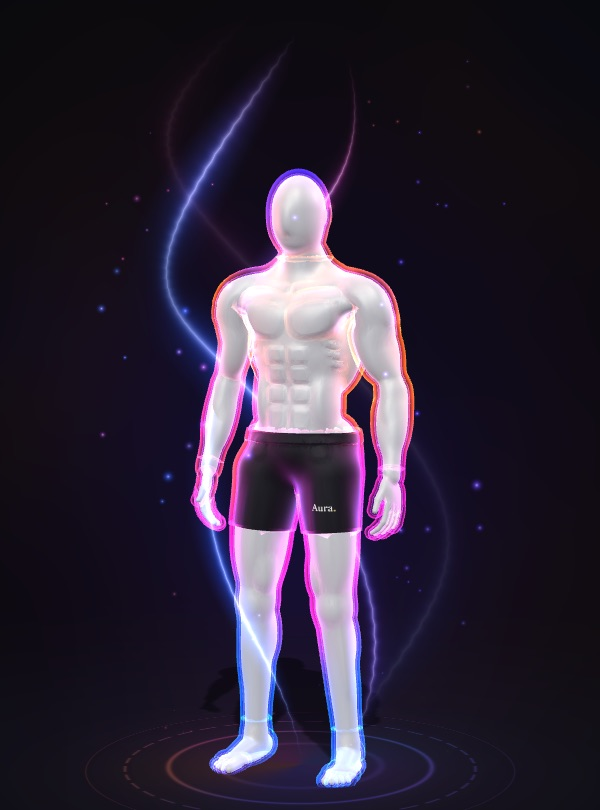
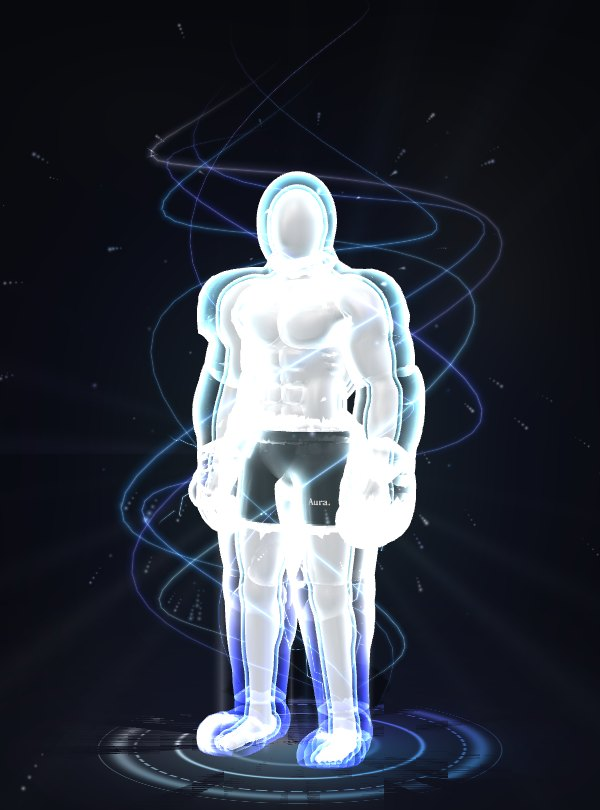
Theme cards: a name, a line and an Electric picture; Get started ignites the circle; a local way in
- Theme cards lose tone, number, description, swatches and typeface; one-line page intro
- Aura theme pictures re-rendered in Electric; npm run posters renders them from the live characters
- Get started: the ring fills in the six colours, the Aura bursts, the next screen follows
- On localhost only: start without Google (absent from the public build)
- Register F-155 to F-157; VISUALS.md

diff --git a/src/features/personalize/Personalize.tsx b/src/features/personalize/Personalize.tsx
@@ -20,7 +20,7 @@ import { CharacterStudio } from './CharacterStudio'
 import { TextSize } from './TextSize'
 
 const TITLES: Record<Step, { title: string; sub: string }> = {
-  theme: { title: 'Choose your theme', sub: 'Five ways to experience Aura. Your training, ratings and progress are the same in all of them, and you can change at any time.' },
+  theme: { title: 'Choose your theme', sub: 'Change it any time. Your training and results stay the same.' },
   character: { title: 'Make the character yours', sub: 'This is who performs your exercises and stands on your profile.' },
   about: { title: 'A little about you', sub: 'All of it is optional. Skip it now and fill it in whenever you like.' },
   sharing: { title: 'What you share', sub: 'You decide what other athletes see, part by part. You can change any of it later.' },
@@ -124,8 +124,6 @@ export default function Personalize() {
 
 // ── Step one: the four themes ────────────────────────────────────────────
 
-const SWATCH = ['--bg', '--surface-2', '--text', '--accent', '--d-pull', '--d-push'] as const
-
 function ThemeStep({ value, onChange, released, admin, character }: { value: ThemeId; onChange: (t: ThemeId) => void; released: Parameters<typeof isReleased>[1]; admin: boolean; character: 'male' | 'female' }) {
   return (
     <div className="grid gap-3.5 sm:grid-cols-2">
@@ -137,20 +135,15 @@ function ThemeStep({ value, onChange, released, admin, character }: { value: The
         return (
           <button
             key={id} data-theme={id} data-scheme={t.scheme} aria-pressed={on} disabled={!open} onClick={() => onChange(id)}
-            className={cx('rise group relative isolate flex min-h-[236px] overflow-hidden rounded-card border bg-bg text-left text-ink transition-[box-shadow,transform] duration-300', on ? 'border-transparent shadow-[0_0_0_2px_var(--accent),0_24px_60px_-28px_var(--accent)]' : 'border-line-strong', !open && 'opacity-60')}
+            title={`${t.name}: ${t.blurb} ${u.list.length} ${u.forms === 'Aura' ? 'Auras' : `${u.forms.toLowerCase()}s`}.`}
+            className={cx('rise group relative isolate flex min-h-[200px] overflow-hidden rounded-card border bg-bg text-left text-ink transition-[box-shadow,transform] duration-300', on ? 'border-transparent shadow-[0_0_0_2px_var(--accent),0_24px_60px_-28px_var(--accent)]' : 'border-line-strong', !open && 'opacity-60')}
             style={{ animationDelay: `${i * 0.06}s` }}
           >
             <span className="page-glow !absolute" />
-            <span className="relative z-10 flex min-w-0 flex-1 flex-col p-4 pr-2 sm:p-5">
-              <span className="eyebrow">{String(i + 1).padStart(2, '0')} · {t.tone}</span>
-              <span className="display mt-2 block text-[32px] leading-[0.98] sm:text-[36px]">{t.name}</span>
+            {/* A name, one line, a picture. What else a theme is, the athlete sees by trying it. */}
+            <span className="relative z-10 flex min-w-0 flex-1 flex-col justify-end p-4 pr-2 sm:p-5">
+              <span className="display block text-[34px] leading-[0.98] sm:text-[38px]">{t.name}</span>
               <span className="display mt-2.5 block text-[17px] leading-[1.12] text-ink-2">{t.line}</span>
-              <span className="mt-2.5 block text-[12px] leading-snug text-ink-3">{t.blurb}</span>
-              <span className="mt-auto flex items-center gap-2 pt-4">
-                <span className="flex">{SWATCH.map((v) => <span key={v} className="-ml-1 h-4 w-4 rounded-full border border-line-strong first:ml-0" style={{ background: `var(${v})` }} />)}</span>
-                <span className="flex gap-1">{u.list.slice(0, 5).map((f) => <span key={f.id} title={f.name} className="h-1.5 w-3 rounded-full" style={{ background: f.colour }} />)}</span>
-              </span>
-              <span className="mt-2 block font-mono text-[9.5px] tracking-[0.1em] text-ink-3 uppercase">{t.type} · {u.list.length} {u.forms === 'Aura' ? 'Auras' : `${u.forms.toLowerCase()}s`}</span>
             </span>
             {/* The character of this universe, in its own light. */}
             <span className="relative z-10 m-2.5 ml-0 w-[38%] shrink-0 overflow-hidden rounded-[calc(var(--r-card)*0.7)] bg-(--stage)">

diff --git a/src/features/onboarding/Onboarding.tsx b/src/features/onboarding/Onboarding.tsx
@@ -213,6 +213,14 @@ export function Onboarding() {
   }
 
   const welcome = step === 0 && !accountStep
+  // "Get started" lights the circle first: the ring fills, the Aura bursts, and the next screen comes out of it.
+  const [igniting, setIgniting] = useState(false)
+  const ignite = (then: () => void) => {
+    if (igniting) return
+    if (window.matchMedia('(prefers-reduced-motion: reduce)').matches) return then()
+    setIgniting(true)
+    window.setTimeout(() => { then(); setIgniting(false) }, 1450)
+  }
   const firstName = name.trim().split(' ')[0] || 'Athlete'
 
   return (
@@ -262,21 +270,26 @@ export function Onboarding() {
           )}
 
           {/* 0 · Welcome: one still screen */}
+          {welcome && igniting && <span className="aura-ignite-flash" aria-hidden />}
           {welcome && (
             <div className="safe-top safe-bottom flex min-h-0 flex-1 flex-col items-center text-center">
               <div className="flex min-h-0 flex-1 flex-col items-center justify-center">
-                <AuraField mix={EVEN} aura={7200} size={Math.round(Math.min(300, Math.max(132, tall * 0.33)))}>
+                <AuraField mix={EVEN} aura={7200} size={Math.round(Math.min(300, Math.max(132, tall * 0.33)))} ignite={igniting}>
                   <Wordmark size={tall < 620 ? 40 : 54} />
                 </AuraField>
-                <h1 className="display mt-[2.5dvh] text-[clamp(31px,5.6dvh,52px)] leading-[1.02]">Discover the limitless potential <span className="italic">of your body.</span></h1>
-                <p className="mt-[2dvh] max-w-sm text-[15.5px] leading-relaxed text-ink-2">
+                <h1 className={cx('display mt-[2.5dvh] text-[clamp(31px,5.6dvh,52px)] leading-[1.02] transition-opacity delay-700 duration-500', igniting && 'opacity-0')}>Discover the limitless potential <span className="italic">of your body.</span></h1>
+                <p className={cx('mt-[2dvh] max-w-sm text-[15.5px] leading-relaxed text-ink-2 transition-opacity delay-700 duration-500', igniting && 'opacity-0')}>
                   Aura shows you exactly where you are today, and every step to where you’ve always dreamed of going.
                 </p>
               </div>
-              <div className="flex w-full max-w-sm shrink-0 flex-col gap-2.5 pt-[2.5dvh]">
+              <div className={cx('flex w-full max-w-sm shrink-0 flex-col gap-2.5 pt-[2.5dvh] transition-opacity duration-500', igniting && 'pointer-events-none opacity-0')}>
                 {configured
-                  ? <button className="btn btn-primary btn-lg" onClick={() => setAccountStep(true)}>Get started <ArrowRight size={17} /></button>
-                  : <button className="btn btn-primary btn-lg" onClick={() => setStep(1)}>Begin <ArrowRight size={17} /></button>}
+                  ? <button className="btn btn-primary btn-lg" data-get-started onClick={() => ignite(() => setAccountStep(true))}>Get started <ArrowRight size={17} /></button>
+                  : <button className="btn btn-primary btn-lg" data-get-started onClick={() => ignite(() => setStep(1))}>Begin <ArrowRight size={17} /></button>}
+                {/* Only on a developer's machine (npm run dev): a public build never has this. */}
+                {configured && import.meta.env.DEV && (
+                  <button className="btn btn-quiet btn-sm self-center" data-local-start onClick={() => ignite(() => setStep(1))}>Without signing in · this computer only</button>
+                )}
                 {configured && (
                   <p className="mt-1 text-[13.5px] text-ink-2">
                     Already have an account?{' '}

diff --git a/src/ui/AuraField.tsx b/src/ui/AuraField.tsx
@@ -13,6 +13,8 @@ interface Props {
   /** 0–1 progress toward the next Aura class, drawn on the outer ring. */
   progress?: number
   rings?: boolean
+  /** Ignite: the outer ring fills with the six colours, clockwise, and the Aura bursts. Plays once when it turns on (the welcome's "Get started"). */
+  ignite?: boolean
   children?: ReactNode
   className?: string
 }
@@ -22,7 +24,7 @@ interface Props {
  * discipline mix. A handstand specialist glows gold, a puller blue, and an
  * all-rounder resolves toward white. Size and brightness follow the score.
  */
-export function AuraField({ mix, aura, size = 320, progress, rings = true, children, className }: Props) {
+export function AuraField({ mix, aura, size = 320, progress, rings = true, ignite, children, className }: Props) {
   const power = Math.min(1, aura / 9000)
   const active = aura > 0
   const reach = 0.17 + power * 0.07
@@ -31,7 +33,7 @@ export function AuraField({ mix, aura, size = 320, progress, rings = true, child
   const circ = 2 * Math.PI * r
 
   return (
-    <div className={`aura-field ${className ?? ''}`} style={style}>
+    <div className={`aura-field ${ignite ? 'aura-ignite' : ''} ${className ?? ''}`} style={style} data-ignite={ignite || undefined}>
       {active && (
         <div className="aura-orbit">
           {WHEEL.map((d, i) => {
@@ -103,8 +105,20 @@ export function AuraField({ mix, aura, size = 320, progress, rings = true, child
               style={{ transition: 'stroke-dasharray 1.2s var(--ease-out-soft)' }}
             />
           )}
+          {/* Ignite: the border round the clock fills, one discipline's colour after another. */}
+          {ignite && WHEEL.map((d, i) => {
+            const at = (deg: number) => { const a = ((deg - 90) * Math.PI) / 180; return `${50 + Math.cos(a) * r} ${50 + Math.sin(a) * r}` }
+            return (
+              <path
+                key={d} d={`M ${at(i * 60)} A ${r} ${r} 0 0 1 ${at(i * 60 + 60.5)}`} pathLength={1}
+                className="aura-ignite-arc" fill="none" stroke={dvar(d)} strokeWidth="1.3" strokeLinecap="round"
+                style={{ animationDelay: `${i * 0.12}s` }}
+              />
+            )
+          })}
         </svg>
       )}
+      {ignite && <span className="aura-ignite-wave" aria-hidden />}
 
       <div className="absolute inset-0 flex flex-col items-center justify-center text-center">{children}</div>
     </div>

diff --git a/src/styles/index.css b/src/styles/index.css
@@ -676,6 +676,57 @@
   mix-blend-mode: soft-light;
 }
 
+/* Ignite (the welcome's "Get started"): the border round the clock fills in the six colours, the field gathers, bursts, and is gone. */
+.aura-ignite {
+  animation: aura-ignite 1.5s cubic-bezier(0.4, 0, 0.2, 1) forwards;
+}
+.aura-ignite-arc {
+  stroke-dasharray: 1;
+  stroke-dashoffset: 1;
+  filter: drop-shadow(0 0 1.6px currentColor) drop-shadow(0 0 3px rgba(255, 255, 255, 0.5));
+  animation: aura-ignite-arc 0.15s linear forwards;
+}
+.aura-ignite-wave {
+  position: absolute;
+  inset: 2%;
+  border-radius: 50%;
+  border: 2px solid rgba(255, 255, 255, 0.85);
+  box-shadow: 0 0 40px 10px color-mix(in oklab, var(--accent) 70%, transparent), inset 0 0 40px 6px color-mix(in oklab, var(--accent) 45%, transparent);
+  opacity: 0;
+  pointer-events: none;
+  animation: aura-ignite-wave 0.75s 0.82s cubic-bezier(0.2, 0.7, 0.3, 1) forwards;
+}
+.aura-ignite-flash {
+  position: fixed;
+  inset: 0;
+  pointer-events: none;
+  background: radial-gradient(circle at 50% 32%, rgba(255, 255, 255, 0.55), color-mix(in oklab, var(--accent) 30%, transparent) 35%, transparent 70%);
+  opacity: 0;
+  animation: aura-ignite-flash 0.7s 0.85s ease-out forwards;
+}
+@keyframes aura-ignite-arc {
+  to { stroke-dashoffset: 0; }
+}
+@keyframes aura-ignite {
+  0% { transform: scale(1); filter: brightness(1); }
+  45% { transform: scale(1.03); filter: brightness(1.25); }
+  56% { transform: scale(0.95); filter: brightness(1.45); }
+  68% { transform: scale(1.18); filter: brightness(2.1) saturate(1.3); opacity: 1; }
+  100% { transform: scale(1.9); filter: brightness(2.6) saturate(1.2); opacity: 0; }
+}
+@keyframes aura-ignite-wave {
+  0% { transform: scale(0.96); opacity: 1; }
+  100% { transform: scale(3.4); opacity: 0; }
+}
+@keyframes aura-ignite-flash {
+  0% { opacity: 0; }
+  30% { opacity: 1; }
+  100% { opacity: 0; }
+}
+@media (prefers-reduced-motion: reduce) {
+  .aura-ignite, .aura-ignite-arc, .aura-ignite-wave, .aura-ignite-flash { animation-duration: 0.01s; animation-delay: 0s; }
+}
+
 @keyframes aura-orbit {
   to {
     transform: rotate(360deg);

diff --git a/scripts/stage.html b/scripts/stage.html
@@ -1,0 +1,23 @@
+<!doctype html><meta charset="utf-8"><title>stage</title>
+<!-- A bare stage for rendering pictures (scripts/render-posters.mjs). Opened through the dev server: /scripts/stage.html?… -->
+<style>html,body{margin:0;background:#08090d;overflow:hidden}canvas{display:block;width:100vw;height:100vh}</style>
+<canvas id="c"></canvas>
+<script type="module">
+import { Player } from '/src/visual/player.ts'
+import { UNIVERSES } from '/src/theme/themes.ts'
+const q = new URLSearchParams(location.search)
+const u = UNIVERSES[q.get('uni') ?? 'aura']
+const f = u.finishes[Number(q.get('fin') ?? 0)]
+const player = new Player(document.getElementById('c'))
+player.margin = Number(q.get('margin') ?? 1.2)
+player.resize(innerWidth, innerHeight)
+await player.setCast([{
+  character: q.get('who') ?? 'male', motion: null, muscles: null,
+  aura: { theme: q.get('theme') ?? 'cosmic', mode: 'full', level: Number(q.get('level') ?? 0.7) },
+  style: { universe: u.id, variant: q.get('var') ?? undefined, skin: f.skin, hair: f.hair, accent: f.accent },
+}])
+if (q.has('az')) player.reframe(Number(q.get('az')))
+if (q.has('zoom')) player.zoom(Number(q.get('zoom')))
+window.__player = player
+setTimeout(() => { window.__ready = true }, Number(q.get('at') ?? 2) * 1000)
+</script>

diff --git a/REGISTER.md b/REGISTER.md
@@ -193,6 +193,9 @@ Reference: [VISUALS.md](VISUALS.md) §11 to §13. Theme data: `src/theme/`. "Pro
 | F-152 | **The sample world is no longer offered on the welcome screen** (owner's request, 2026-11-19). It still exists for testing and is opened by address only: `…/?demo` | Sample data | T-20; every journey now enters this way | Nobody finds it by accident. Coach Studio can therefore be looked at without an account only by someone who knows the address | F-01 |
 | F-153 | **At rest an Aura is a strong glow; Activate charges it and lets it burst.** Every theme in every universe: only the burning outline and its field while standing; rays, ribbons, particles, streams, rings, lightning only in a burst. *Activate* on the character (profile, Personalize, Character Studio) gathers for about a second, bursts, and settles. A set in a demonstration no longer bursts by itself | Working (local) | Rendered at rest, gathering, bursting and after, for 4 Aura themes, 4 Goku forms, 3 Baki forms and the paper stage (Goku Light); on the profile: Activate charges, bursts, is ready again (T-20) | Changes how every Aura looks: **look at your forms in the Character Studio**. The theme posters shown before a character is chosen are still the earlier pictures, with ribbons. The instructor screen still bursts in Electric. Exercise demonstrations show no Aura, as before | F-120, F-148 |
 | F-154 | **The introduction lights what it talks about in the theme's colour**, with a glow round it, and the tab of the page you are on is in that colour too. It ends on *Go to profile*, with *Start first training* under it, quieter. Back on the profile, **Personalize glows** until theme and character are chosen | Working (local) | T-20: the lit tab in the theme colour, the ending's two actions, Personalize glowing and stopping once chosen; the journeys re-run | The glow shows only after the introduction was seen or skipped, so it never competes with "Start here" | F-143 |
+| F-155 | **The theme cards are a name, one line and a picture**: the tone, number, description, colour dots and typeface line are gone (the description is kept as the card's tooltip). The Aura themes' picture is now the master character in the **Electric** Aura, just after an Activate burst (`npm run posters -- aura`, `scripts/render-posters.mjs`, from the live 3D characters). The page's own line is one sentence | Working (local) | In a browser: the card's text, the new picture on both Aura cards (owner's screenshot 2026-11-19 as the brief) | **Only the two Aura pictures were remade.** Goku, Goku Light and Baki keep their earlier pictures; the same script remakes them when wanted. The picture shows Electric although an athlete starts in Cosmic: it shows what the theme can be | F-121 |
+| F-156 | **"Get started" ignites the circle**: the ring round the clock fills clockwise in the six discipline colours, the Aura gathers and bursts outward in a wave and a flash, and the next screen comes out of it (about 1.5 s). Also on *Begin* (without accounts). With reduced motion it goes straight on | Working (local) | Filmed in a browser at eight moments; the account step follows; the onboarding journey re-run with it | – | F-150 |
+| F-157 | **On a developer's machine only, a way in without Google**: *Without signing in · this computer only* on the welcome, under Get started. It runs the same questions and makes a local profile on that computer, as Aura without accounts does | Working (local) | In a browser, with the project configured: the button, the questions, the starting line, the profile; **checked absent from the public build** | Exists only in `npm run dev` (`import.meta.env.DEV`): the public site never shows it. A profile made this way is not an account and is not synced | F-01 |
 
 ### A coach sees their students (added 2026-11-19)
 
@@ -415,6 +418,13 @@ Reference: [VISUALS.md](VISUALS.md) §11 to §13. Theme data: `src/theme/`. "Pro
 | Data protection | Any real athletes | Privacy notice, deletion and export, consent for under-18s in classes |
 
 ## F · Change log
+
+**2026-11-19 · Simpler theme cards in Electric; Get started ignites; a local way in**
+
+- At the owner's request: theme cards cut to name, line and picture, with the Aura pictures remade in Electric (F-155). New `npm run posters` and `scripts/stage.html` render them from the live characters.
+- Get started fills the circle's ring and bursts into the next screen (F-156).
+- On localhost only, the questions can be reached without Google (F-157); not in the public build.
+- Journeys 58, 21, 44; 649 tests. **Not on a real phone.** Not published.
 
 **2026-11-19 · The Aura at rest, Activate, and a clearer introduction**
 

diff --git a/VISUALS.md b/VISUALS.md
@@ -121,6 +121,8 @@ Together these are every exercise of the first-day assessment (all 67 of its gui
 - **Behaviour** (`director.ts`): repetitions climb a little each rep and swell in the hard part; holds build steadily with a growing tremor; balance follows the small corrections; mobility breathes. A completed repetition sends a wave across the floor; the end of a set settles and starts again. **It no longer bursts by itself** (2026-11-19): bursting is the athlete's, with Activate.
 - The field measures the body every frame, so it wraps a standing athlete, a plank and someone hanging alike.
 
+**Theme pictures** (`public/themes/*.jpg`, the cards in Personalize) are rendered from the live characters by `npm run posters` (`scripts/render-posters.mjs` through `scripts/stage.html`, with the dev server running): each universe's poster form, three-quarter view, just after an Activate burst. The Aura pictures show Electric (owner's choice, 2026-11-19); the others are still the earlier renders.
+
 **Adding a theme**: one entry in `THEMES`. A new kind of effect is a new component in `field.ts` plus its entry in every theme.
 
 **Not built**: giving a theme to a challenge or an event; an explosive behaviour (no explosive exercise is in the pilot).
